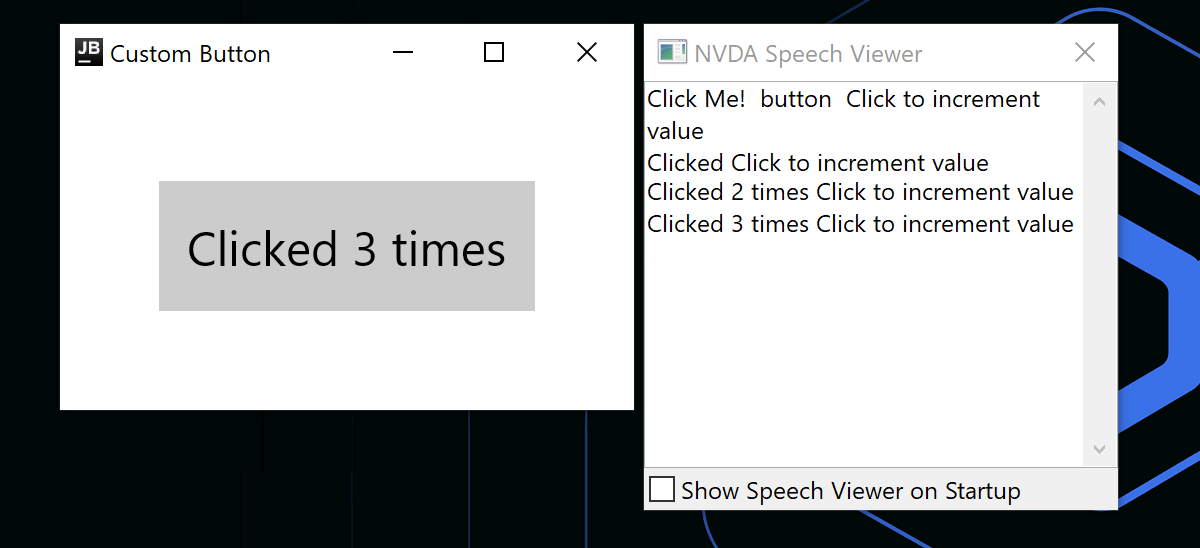
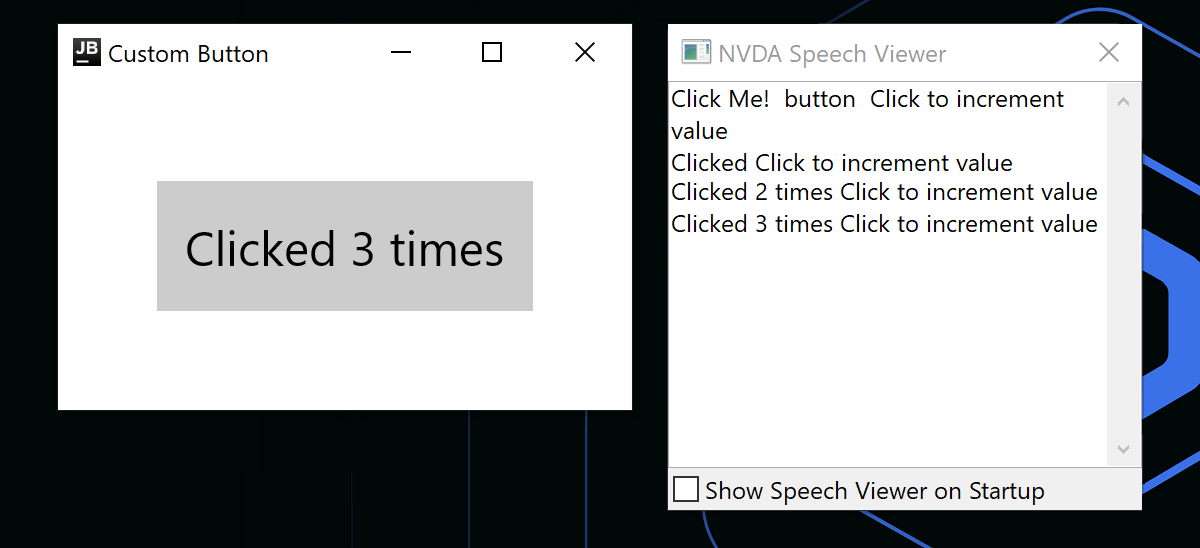
Accessibility Inspector

diff --git a/topics/compose/compose-desktop-accessibility.md b/topics/compose/compose-desktop-accessibility.md
@@ -64,7 +64,16 @@ fun main() = singleWindowApplication(
 ```
 {initial-collapse-state="collapsed" collapsible="true" collapsed-title=".clickable { count += 1 } .semantics(mergeDescendants = true)"}
 
-<img src="compose-desktop-accessibility.png" alt="Custom button with semantic rules" width="600"/>
+To test the application's accessibility on macOS, you can use [Accessibility Inspector](https://developer.apple.com/documentation/accessibility/accessibility-inspector)
+(**Xcode** | **Open Developer Tool** | **Accessibility Inspector**):
+
+<img src="compose-desktop-accessibility-macos.png" alt="Accessibility inspector on mcOS" width="700"/>
+
+On Windows, you can use the **Show Speech History** feature in [JAWS](https://www.freedomscientific.com/Products/Blindness/JAWS) 
+or the **Speech Viewer** in [NVDA](https://www.nvaccess.org/):
+
+<img src="compose-desktop-accessibility.png" alt="Accessibility on Windows" width="600"/>
+
 
 For more examples, refer to the [Accessibility in Jetpack Compose](https://developer.android.com/develop/ui/compose/accessibility) guide.
 
